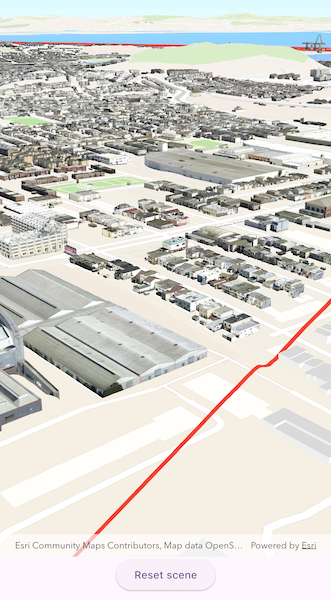
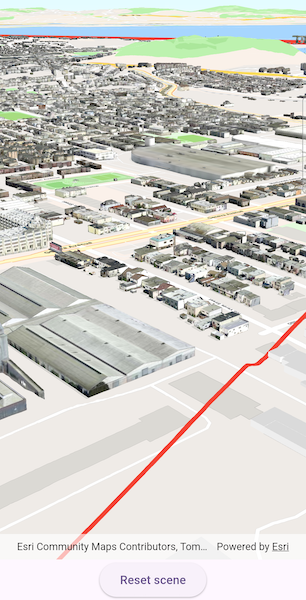
Update "Filter Features in Scene" Sample (#444)
* Updates to readme

* Update image

* Update the sample

* Adjust ordering

diff --git a/lib/samples/filter_features_in_scene/filter_features_in_scene.dart b/lib/samples/filter_features_in_scene/filter_features_in_scene.dart
@@ -31,29 +31,25 @@ class _FilterFeaturesInSceneState extends State<FilterFeaturesInScene>
   // A flag for when the scene view is ready.
   var _ready = false;
 
-  // ArcGIS Online services.
-  final _osmTopographic =
-      'https://www.arcgis.com/home/item.html?id=1e7d1784d1ef4b79ba6764d0bd6c3150';
-  final _elevationSource =
+  // URLs to the services used in the sample.
+  final _basemapUrl =
+      'https://arcgisruntime.maps.arcgis.com/home/item.html?id=00a5f468dda941d7bf0b51c144aae3f0';
+  final _elevationServiceUrl =
       'https://elevation3d.arcgis.com/arcgis/rest/services/WorldElevation3D/Terrain3D/ImageServer';
-  final _sanFranciscoBuildings =
+  final _detailedBuildingsLayerUrl =
       'https://tiles.arcgis.com/tiles/z2tnIkrLQ2BRzr6P/arcgis/rest/services/SanFrancisco_Bldgs/SceneServer';
 
-  // San Francisco buildings scene layer for the sample.
-  late ArcGISSceneLayer _sfBuildingsSceneLayer;
-  // Open Street Map buildings scene layer for the sample.
-  late ArcGISSceneLayer _osmBuildingsSceneLayer;
+  // The scene layer containing detailed buildings in San Francisco, CA, USA.
+  late ArcGISSceneLayer _detailedBuildingsLayer;
+  // The "Buildings" scene layer from the scene's basemap.
+  late ArcGISSceneLayer _buildingsLayer;
 
-  // A Graphic to get San Francisco's information.
-  Graphic _sfGraphic = Graphic();
-  // A Graphics overlay to present the graphic for the sample.
-  final _sfGraphicsOverlay = GraphicsOverlay();
-  // A Polygon geometry that represents the San Francisco buildings scene layer full extent.
-  late Geometry _sceneLayerExtentPolygon;
+  // A graphic of the extent of the detailed San Francisco buildings scene layer.
+  var _sfExtentGraphic = Graphic();
   // A filter that limits the visible features of the scene layer.
   late SceneLayerPolygonFilter _sceneLayerPolygonFilter;
   // A state for filtering features in a scene.
-  SceneFilterAction _sceneFilterAction = SceneFilterAction.load;
+  var _sceneFilterAction = SceneFilterAction.filter;
 
   @override
   Widget build(BuildContext context) {
@@ -74,6 +70,7 @@ class _FilterFeaturesInSceneState extends State<FilterFeaturesInScene>
                   ),
                 ),
                 Center(
+                  // A button to control the state of the filter.
                   child: ElevatedButton(
                     onPressed: onSceneActionPressed,
                     child: Text(_sceneFilterAction.label),
@@ -90,84 +87,80 @@ class _FilterFeaturesInSceneState extends State<FilterFeaturesInScene>
   }
 
   Future<void> onSceneViewReady() async {
-    final scene = _setupScene();
+    // Configure the scene and add to the scene view controller.
+    final scene = await _setupScene();
     _sceneViewController.arcGISScene = scene;
 
     // Create a scene layer for the San Francisco buildings.
-    _sfBuildingsSceneLayer = ArcGISSceneLayer.withUri(
-      Uri.parse(_sanFranciscoBuildings),
+    _detailedBuildingsLayer = ArcGISSceneLayer.withUri(
+      Uri.parse(_detailedBuildingsLayerUrl),
     );
-    await _sfBuildingsSceneLayer.load();
+    // Load so that the extent can be accessed.
+    await _detailedBuildingsLayer.load();
 
-    // Add the graphics overlay to the scene view controller.
-    _sceneViewController.graphicsOverlays.add(_sfGraphicsOverlay);
-
-    _createAndFilterPolygon();
-
-    setState(() => _ready = true);
-  }
-
-  ArcGISScene _setupScene() {
-    // Create a scene.
-    final scene = ArcGISScene();
-
-    // Create on ArcGIS Online portal instance.
-    final arcGISOnlinePortal = Portal.arcGISOnline();
-
-    // Create the Open Street Map scene layer from the portal item.
-    _osmBuildingsSceneLayer = ArcGISSceneLayer.withItem(
-      PortalItem.withPortalAndItemId(
-        portal: arcGISOnlinePortal,
-        itemId: 'ca0470dbbddb4db28bad74ed39949e25',
-      ),
+    // Add the detailed buildings layer to the scene.
+    // The layer is initially hidden so that it doesn't
+    // clip into the buildings layer while it is unfiltered.
+    _detailedBuildingsLayer.isVisible = false;
+    _sceneViewController.arcGISScene!.operationalLayers.add(
+      _detailedBuildingsLayer,
     );
 
-    // Add base layers to the basemap in the scene.
-    scene.basemap?.baseLayers.addAll([
-      ArcGISVectorTiledLayer.withUri(Uri.parse(_osmTopographic)),
-      _osmBuildingsSceneLayer,
-    ]);
+    // Prepare the scene layer filter.
+    _configureSceneLayerFilter();
 
-    // Add surface elevation to the scene.
-    final worldElevationService = Uri.parse(_elevationSource);
-    final elevationSource = ArcGISTiledElevationSource.withUri(
-      worldElevationService,
-    );
-    scene.baseSurface.elevationSources.add(elevationSource);
-
-    // Create camera with an initial camera position.
+    // Set the viewpoint over San Francisco.
     final camera = Camera.withLocation(
       location: ArcGISPoint(x: -122.421, y: 37.7041, z: 207),
       heading: 60,
       pitch: 70,
       roll: 0,
     );
+    _sceneViewController.setViewpointCamera(camera);
 
-    // Set the scene's initial viewpoint.
-    scene.initialViewpoint = Viewpoint.withPointScaleCamera(
-      center: ArcGISPoint(x: 0, y: 0),
-      scale: 1,
-      camera: camera,
+    // Set the ready state variable to true to enable the sample UI.
+    setState(() => _ready = true);
+  }
+
+  Future<ArcGISScene> _setupScene() async {
+    // Create a basemap with the ArcGIS Navigation 3D Basemap.
+    final basemap = Basemap.withUri(Uri.parse(_basemapUrl))!;
+
+    // Load the basemap to access the base layers.
+    await basemap.load();
+
+    // Get the "Buildings" layer from the base layers.
+    _buildingsLayer =
+        basemap.baseLayers.where((layer) => layer.name == 'Buildings').first
+            as ArcGISSceneLayer;
+
+    // Create a scene with the basemap.
+    final scene = ArcGISScene.withBasemap(basemap);
+
+    // Construct and set the scene topography.
+    final worldElevationService = Uri.parse(_elevationServiceUrl);
+    final elevationSource = ArcGISTiledElevationSource.withUri(
+      worldElevationService,
     );
+    scene.baseSurface.elevationSources.add(elevationSource);
 
     return scene;
   }
 
   // Builds a polygon from the San Francisco buildings extent,
-  // adds a red outline graphic, and sets up a filter for OSM buildings.
-  void _createAndFilterPolygon() {
-    // Build a polygon from the full extent of the San Francisco buildings layer.
+  // adds a red outline graphic, and sets up a filter.
+  void _configureSceneLayerFilter() {
+    // Build a polygon from the full extent of the San Francisco detailed buildings layer.
     final polygonBuilder = PolygonBuilder(
       spatialReference: _sceneViewController.spatialReference,
     );
-    final extent = _sfBuildingsSceneLayer.fullExtent!;
+    final extent = _detailedBuildingsLayer.fullExtent!;
     polygonBuilder.addPointXY(x: extent.xMin, y: extent.yMin);
     polygonBuilder.addPointXY(x: extent.xMax, y: extent.yMin);
     polygonBuilder.addPointXY(x: extent.xMax, y: extent.yMax);
     polygonBuilder.addPointXY(x: extent.xMin, y: extent.yMax);
-
-    // Convert the polygon builder to a geometry.
-    _sceneLayerExtentPolygon = polygonBuilder.toGeometry();
+    // Convert the polygon builder to a polygon geometry.
+    final polygon = polygonBuilder.toGeometry() as Polygon;
 
     // Create a red outline symbol with transparent fill.
     final outlineSymbol = SimpleFillSymbol(
@@ -176,14 +169,21 @@ class _FilterFeaturesInSceneState extends State<FilterFeaturesInScene>
     );
 
     // Create a graphic using the polygon geometry and symbol.
-    _sfGraphic = Graphic(
-      geometry: polygonBuilder.toGeometry(),
-      symbol: outlineSymbol,
-    );
+    _sfExtentGraphic = Graphic(geometry: polygon, symbol: outlineSymbol);
 
-    // Create the SceneLayerPolygonFilter to later apply to the OSM buildings layer.
+    // Create a graphics overlay and add to the scene view.
+    final graphicsOverlay = GraphicsOverlay();
+    // Add the graphics overlay to the scene view controller.
+    _sceneViewController.graphicsOverlays.add(graphicsOverlay);
+
+    // Initially hide the graphic, since the filter has not been applied yet.
+    _sfExtentGraphic.isVisible = false;
+    // Add the graphic to the graphics overlay.
+    graphicsOverlay.graphics.add(_sfExtentGraphic);
+
+    // Create the SceneLayerPolygonFilter to later apply to the buildings base layer.
     _sceneLayerPolygonFilter = SceneLayerPolygonFilter(
-      polygons: [polygonBuilder.toGeometry() as Polygon],
+      polygons: [polygon],
       spatialRelationship: SceneLayerPolygonFilterSpatialRelationship.disjoint,
     );
   }
@@ -191,8 +191,8 @@ class _FilterFeaturesInSceneState extends State<FilterFeaturesInScene>
   // Filter scene based on the current filter action.
   void onSceneActionPressed() {
     switch (_sceneFilterAction) {
-      case SceneFilterAction.load:
-        _addBuildings();
+      case SceneFilterAction.show:
+        _showDetailedBuildings();
       case SceneFilterAction.filter:
         _filterScene();
       case SceneFilterAction.reset:
@@ -201,55 +201,49 @@ class _FilterFeaturesInSceneState extends State<FilterFeaturesInScene>
     setState(() => _sceneFilterAction = _sceneFilterAction.next());
   }
 
-  // Add the San Francisco buildings scene layer and its extent graphic to the scene.
-  void _addBuildings() {
-    _sceneViewController.arcGISScene?.operationalLayers.add(
-      _sfBuildingsSceneLayer,
-    );
-    _sfGraphicsOverlay.graphics.add(_sfGraphic);
+  // Show the detailed buildings layer.
+  void _showDetailedBuildings() {
+    _detailedBuildingsLayer.isVisible = true;
   }
 
-  // Apply a polygon filter to hide OSM buildings within the San Francisco extent.
+  // Apply a polygon filter to hide the 3D buildings in the base layer within the San Francisco detailed buildings layer extent.
   void _filterScene() {
-    // If no filter is set, assign the polygon filter.
-    if (_osmBuildingsSceneLayer.polygonFilter == null) {
-      _osmBuildingsSceneLayer.polygonFilter = _sceneLayerPolygonFilter;
-    }
-    // If the filter exists but has no polygons, add the extent polygon.
-    else {
-      _sceneLayerPolygonFilter.polygons.add(
-        _sceneLayerExtentPolygon as Polygon,
-      );
-    }
+    // Set the polygon filter to the buildings layer.
+    _buildingsLayer.polygonFilter = _sceneLayerPolygonFilter;
+    // Show the graphic to indicate the filtered extent.
+    _sfExtentGraphic.isVisible = true;
   }
 
-  // Reset the scene by removing layers, filters, and graphics.
+  // Reset the scene.
   void _resetScene() {
-    _sceneViewController.arcGISScene!.operationalLayers.clear();
-    _osmBuildingsSceneLayer.polygonFilter?.polygons.clear();
-    _sfGraphicsOverlay.graphics.clear();
+    // Hide the detailed buildings layer.
+    _detailedBuildingsLayer.isVisible = false;
+    // Remove the polygon filter from the buildings layer.
+    _buildingsLayer.polygonFilter = null;
+    // Hide the red extent boundary graphic.
+    _sfExtentGraphic.isVisible = false;
   }
 }
 
-// The different states for filtering features in a scene.
+// The different states for filtering features in the sample workflow.
 enum SceneFilterAction {
-  load('Load detailed buildings'),
-  filter('Filter OSM buildings'),
+  show('Show detailed buildings'),
+  filter('Filter'),
   reset('Reset scene');
 
   const SceneFilterAction(this.label);
 
   final String label;
 
-  // The next action to apply to a scene.
+  // The next action to apply to the scene.
   SceneFilterAction next() {
     switch (this) {
-      case SceneFilterAction.load:
-        return SceneFilterAction.filter;
       case SceneFilterAction.filter:
+        return SceneFilterAction.show;
+      case SceneFilterAction.show:
         return SceneFilterAction.reset;
       case SceneFilterAction.reset:
-        return SceneFilterAction.load;
+        return SceneFilterAction.filter;
     }
   }
 }

diff --git a/lib/samples/filter_features_in_scene/README.md b/lib/samples/filter_features_in_scene/README.md
@@ -10,15 +10,16 @@ You can directly control what users see within a specific scene view to give a m
 
 ## How to use the sample
 
-The sample initializes showing the 3D buildings OpenStreetMap layer. Tap the "Load detailed buildings" button to load an additional scene layer that contains more detailed buildings. Notice how the two scene layers overlap and clip into each other. Tap the "Filter OSM buildings" button, to set a `SceneLayerPolygonFilter` and filter out the OpenStreetMap buildings within the extent of the detailed buildings scene. Notice how the OSM buildings within and intersecting the extent of the detailed buildings layer are hidden. Tap the "Reset scene" button to hide the detailed buildings scene layer and clear the OSM buildings filter.
+The sample initializes showing the "Navigation" 3D Basemap. Tap the "Filter" button, to set a `SceneLayerPolygonFilter` and filter out the Esri 3D buildings within the extent of a detailed buildings scene layer. Notice how the Esri 3D buildings within and intersecting the extent of the detailed buildings layer are hidden. Tap the "Show detailed buildings" button to display a scene layer that contains more detailed buildings. Tap the "Reset scene" button to hide the detailed buildings scene layer and clear the 3D buildings filter.
 
 ## How it works
 
-1. Construct a `Basemap` for the scene using a topographic `ArcGISVectorTileLayer` and the OpenStreetMap 3D Buildings `ArcGISSceneLayer` as base layers.
-2. Create a `Surface` for the scene and set the World Elevation 3D as an elevation source.
-3. Add the 3D San Francisco Buildings `ArcGISSceneLayer` to the scene's operational layers.
+1. Create a `Surface` for the scene and set the World Elevation 3D as an elevation source.
+2. Construct a `Basemap` for the scene using the "Navigation" 3D Basemap, load it, then search for the "Buildings" baselayer.
+3. Add the detailed 3D San Francisco Buildings `ArcGISSceneLayer` to the scene's operational layers and set its visibility to `false` so it does not intersect the 3D basemap buildings.
 4. Construct a `SceneLayerPolygonFilter` with the extent of the San Francisco Buildings Scene Layer and the `SceneLayerPolygonFilterSpatialRelationship.disjoint` enum to hide all features within the extent.
-5. Set the `SceneLayerPolygonFilter` on the OSM Buildings layer to hide all OSM buildings within the extent of the San Francisco Buildings layer.
+5. Set the `SceneLayerPolygonFilter` on the Esri 3D Buildings layer to hide all buildings within the extent of the San Francisco Buildings layer.
+6. Set the visibility of the 3D San Francisco Buildings layer to `true` to show the detailed 3D buildings in the extent.
 
 ## Relevant API
 
@@ -28,7 +29,7 @@ The sample initializes showing the 3D buildings OpenStreetMap layer. Tap the "Lo
 
 ## About the data
 
-This sample uses the [OpenStreetMap 3D Buildings](https://www.arcgis.com/home/item.html?id=ca0470dbbddb4db28bad74ed39949e25) which provides generic 3D outlines of buildings throughout the world. It is based on the OSM Daylight map distribution and is hosted by Esri. It uses the [San Francisco 3D Buildings](https://www.arcgis.com/home/item.html?id=d3344ba99c3f4efaa909ccfbcc052ed5) scene layer which provides detailed 3D models of buildings in San Francisco, California, USA.
+This sample uses the [Navigation 3D Basemap](https://www.arcgis.com/home/item.html?id=00a5f468dda941d7bf0b51c144aae3f0) which includes commercial 3D buildings data acquired from TomTom and Vantor, in addition to Esri Community Maps and Overture Maps Foundation data. It also uses the [San Francisco 3D Buildings](https://www.arcgis.com/home/item.html?id=d3344ba99c3f4efaa909ccfbcc052ed5) scene layer which provides detailed 3D models of buildings in San Francisco, California, USA.
 
 ## Additional information
 
@@ -38,4 +39,4 @@ You can also show or hide features in a scene layer using `ArcGISSceneLayer.setF
 
 ## Tags
 
-3D, buildings, disjoint, exclude, extent, filter, hide, OSM, polygon
+3D, buildings, disjoint, exclude, extent, filter, hide, polygon
